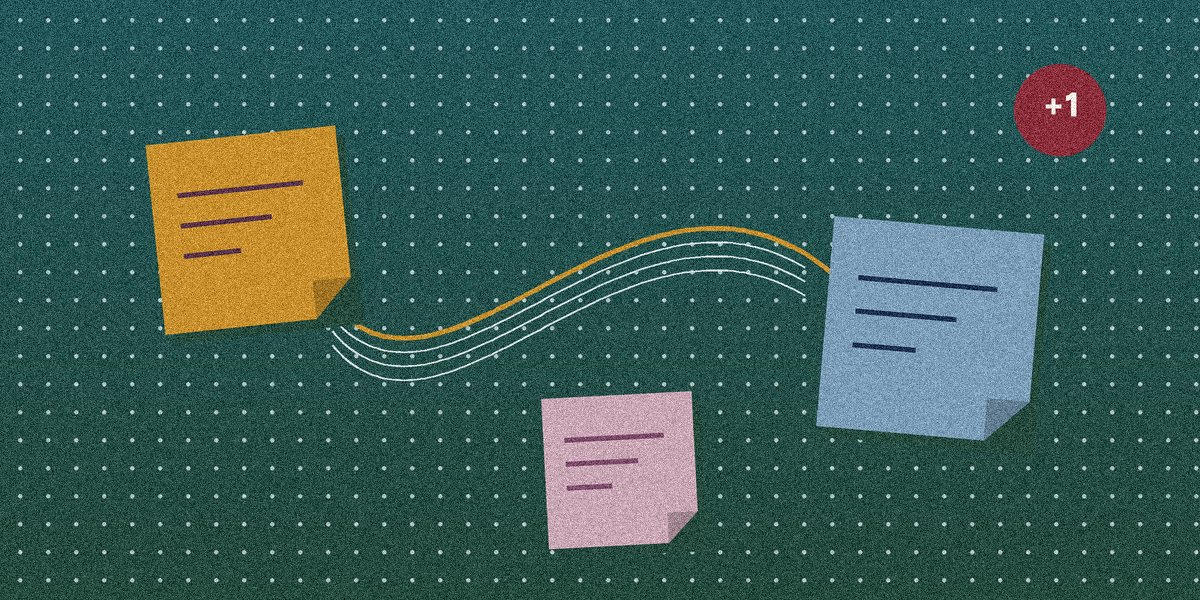
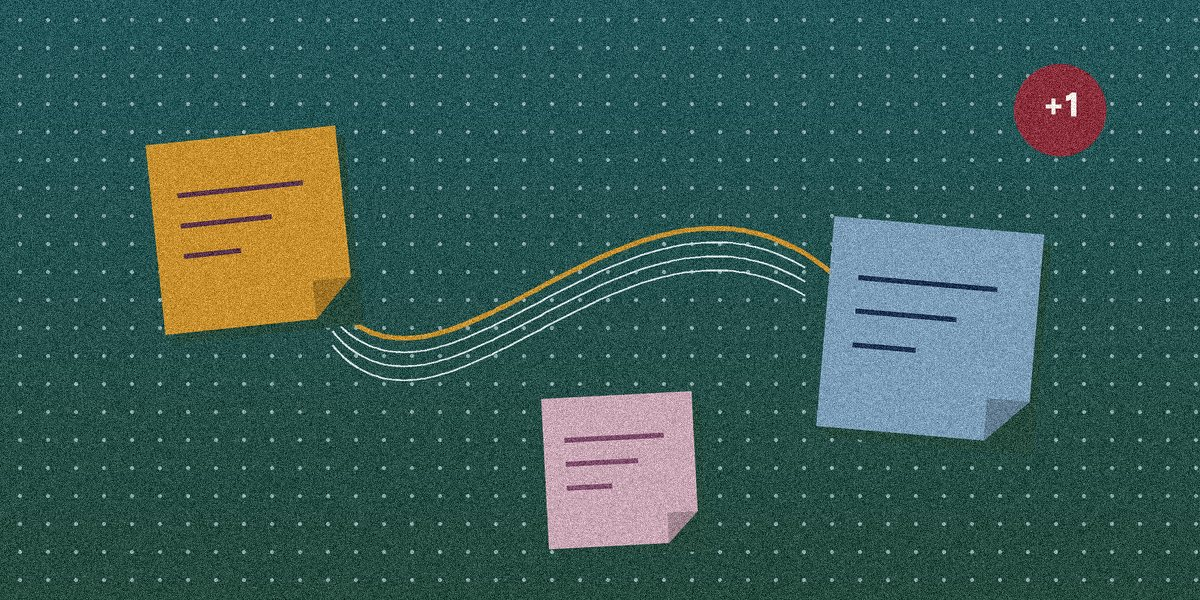
Vibes FigJam: softer dots on the teal Stickies board
Claude-Session: https://claude.ai/code/session_01CPFfiZz4rjPwAdTY8Ptavd

diff --git a/art/vibes/stickies_dark.py b/art/vibes/stickies_dark.py
@@ -11,7 +11,7 @@ im = canvas(c['teal'], c['pine'], 1)
 d = ImageDraw.Draw(im)
 for x in range(20, 1200, 28):
     for y in range(20, 600, 28):
-        d.ellipse([(x-2)*S, (y-2)*S, (x+2)*S, (y+2)*S], fill=MIX(c['teal'], c['foamb'], 0.78))
+        d.ellipse([(x-1.8)*S, (y-1.8)*S, (x+1.8)*S, (y+1.8)*S], fill=MIX(c['teal'], c['foamb'], 0.6))
 def sticky(x, y, s, col, ang, lines_col):
     st = Image.new('RGBA', (int(s*S*1.6), int(s*S*1.6)), (0, 0, 0, 0)); sd = ImageDraw.Draw(st)
     o = s*S*0.3
